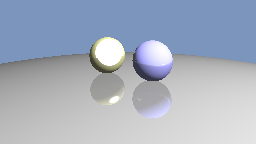
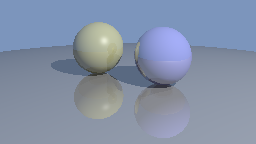
specular works

diff --git a/ray.py b/ray.py
@@ -157,8 +157,8 @@ class Triangle:
         gamma = solutions[1]
         t = solutions[2]
 
-        #print(self.vs)
-        #print()
+        # print(self.vs)
+        # print()
         if t >= ray.start and t <= ray.end and beta > 0 and gamma > 0 and beta+gamma < 1:
             # TODO check this is right
             normal = np.cross(self.vs[0]-self.vs[1], self.vs[0]-self.vs[2])
@@ -202,7 +202,7 @@ class Camera:
         # TODO A4 implement this function
         # generate ray using perspective
 
-        #img_point[1] = 1-img_point[1]
+        # img_point[1] = 1-img_point[1]
         d = np.linalg.norm(self.eye-self.target)
         h = d*np.tan(self.vfov*np.pi/180)
         w = h*self.aspect
@@ -252,28 +252,28 @@ class PointLight:
         l /= np.linalg.norm(l)
         n = hit.normal / np.linalg.norm(hit.normal)
         v = -ray.direction / np.linalg.norm(ray.direction)
-        h = (v + l)/ np.linalg.norm(v + l)
+        h = (v + l) / np.linalg.norm(v + l)
 
         # maybe put it outside this loop, or in a diff function
         # TODO pick better start value?
-        blocking = scene.intersect(Ray(origin=hit.point, direction=self.position-hit.point, start=10**-6))
+        blocking = scene.intersect(
+            Ray(origin=hit.point, direction=self.position-hit.point, start=10**-6))
         if blocking != no_hit:
-           return np.zeros(3)
+            return np.zeros(3)
 
         for surf in scene.surfs:
             point = np.array(surf.intersect(ray).point)
             if (point == hit.point).all():
-                # Diffuse shading
-                diffuse_shading = surf.material.k_d * \
-                    self.intensity * \
+
+                diffuse_shading = surf.material.k_d * self.intensity * \
                     np.clip((n @ l), 0, None) / r**2
 
                 # Specular shading
-                specular_shading = (surf.material.k_d + surf.material.k_s * (n @ h)**surf.material.p) * self.intensity * \
+                specular_shading = (surf.material.k_s * (n @ h)**surf.material.p) * self.intensity * \
                     np.clip((n @ l),
                             0, None) / r**2
 
-                return diffuse_shading + specular_shading
+                return (diffuse_shading + specular_shading)
 
 
 class AmbientLight:
@@ -301,6 +301,7 @@ class AmbientLight:
         for surf in scene.surfs:
             point = np.array(surf.intersect(ray).point)
             if (point == hit.point).all():
+
                 return surf.material.k_a * self.intensity
 
 
@@ -403,9 +404,9 @@ def render_image(camera: Camera, scene: Scene, lights, nx, ny):
 
             # for surf in scene.surfs:
             hit = scene.intersect(ray)
-            #print(i)
-            #print(j)
-            #print()
+            # print(i)
+            # print(j)
+            # print()
             output[i][j] = shade(ray, hit, scene, lights)
 
     return output
